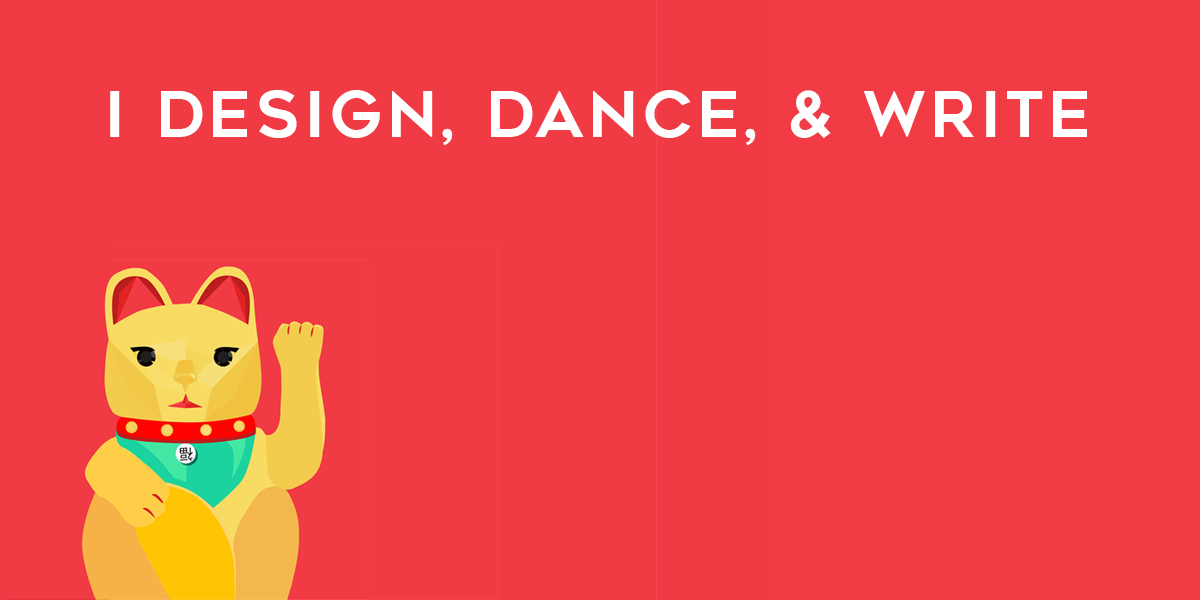
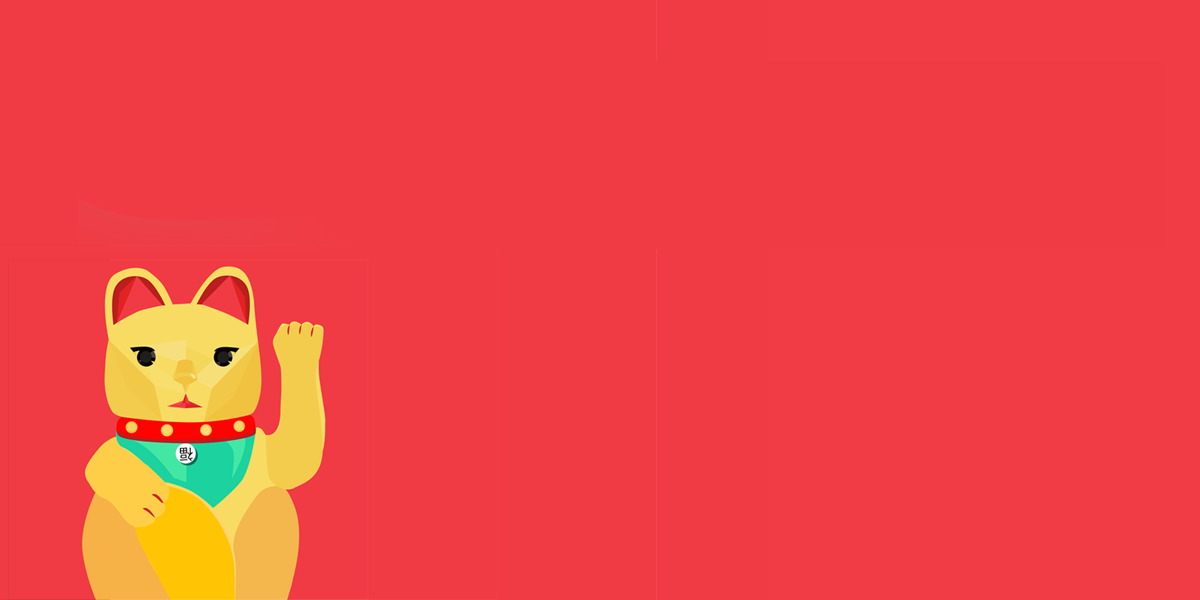
cat image please work

Changed region(s): [[0.0925, 0.15, 0.925, 0.24]]

diff --git a/index.html b/index.html
@@ -25,7 +25,7 @@
       </div>
       <div id="welcome">
          <p id="welcometext">Hello, I'm Vivian.</p>
-         <img id="catcat" src="assets/img/Cat2.png">
+         <img id="catcat" src="assets/img/carouselitem2.png">
       </div>
       <div id="hobbies">
          <div id="design" class="animate">
